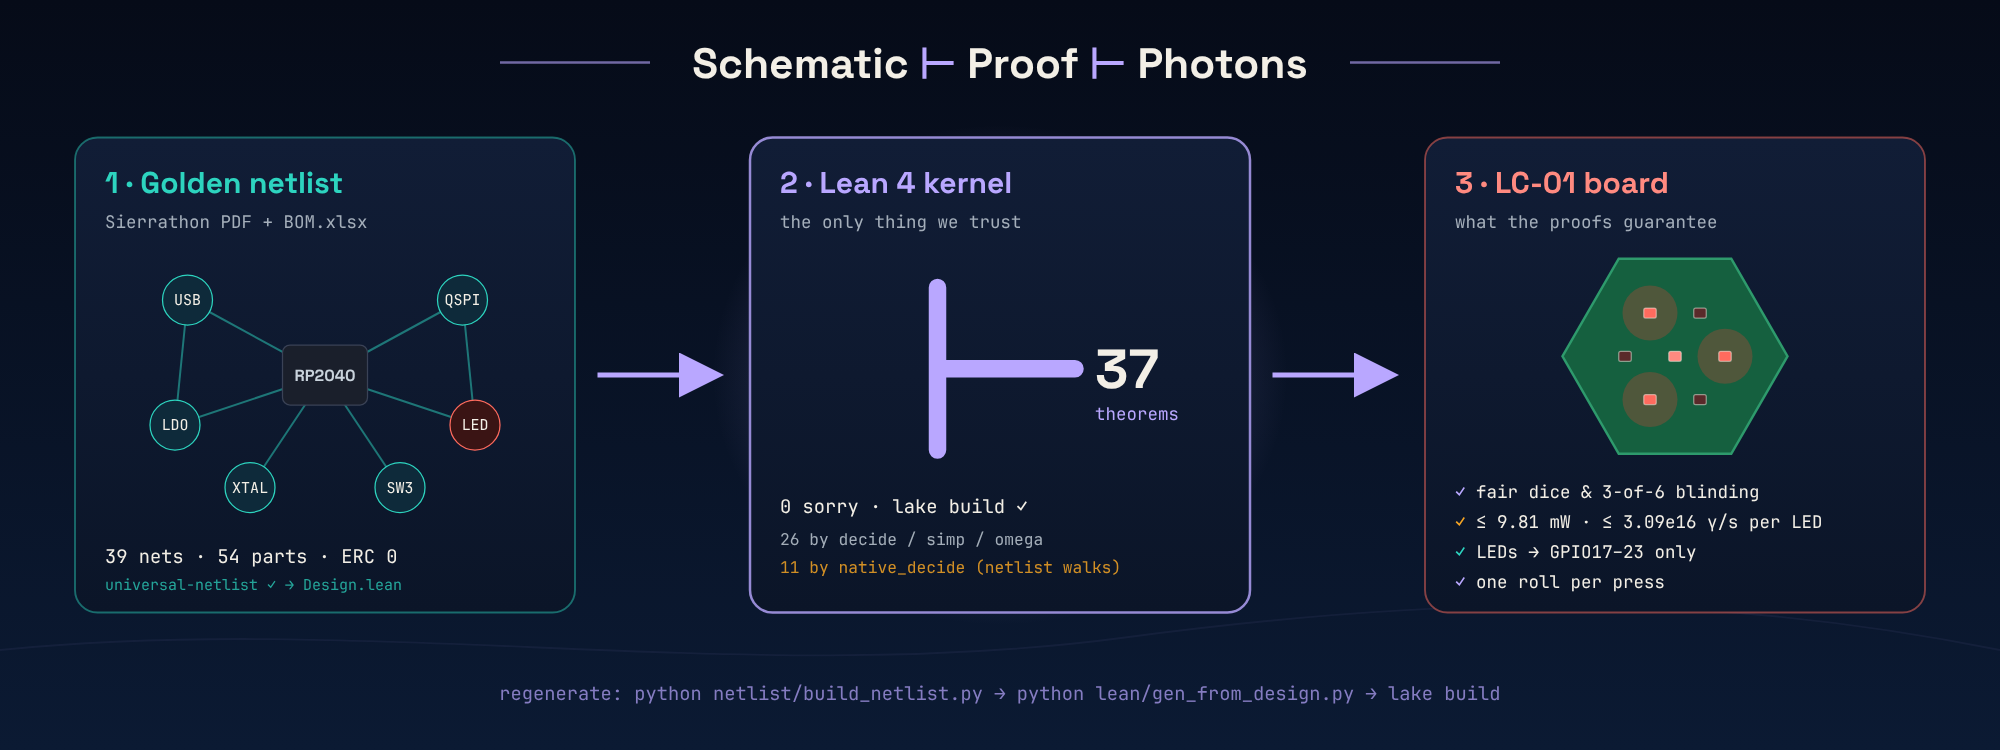
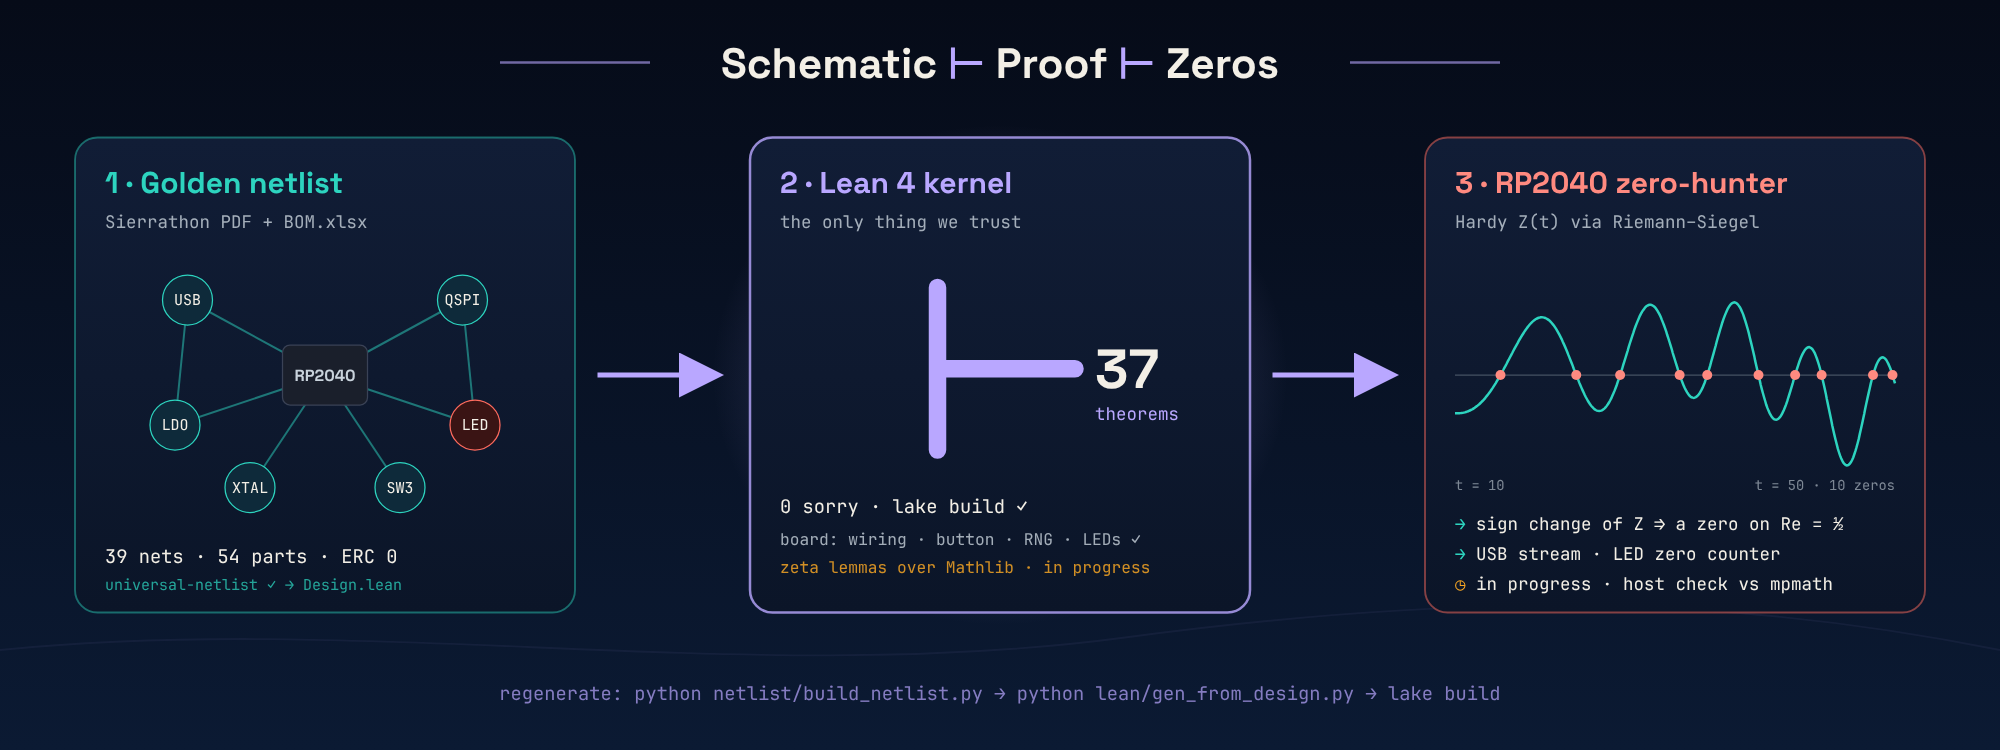
Rewrite README for the Riemann zeta zero-hunter direction
- README now describes LeanChip as an RP2040 zeta zero-hunter: Mathlib's
  exact RiemannHypothesis statement, a claims table separating proven /
  in progress / tested / not claimed, how Hardy Z(t) and Riemann-Siegel
  locate zeros, the first ten zeros, and the Mathlib results the zeta
  lemmas will build on
- Pipeline diagram: Schematic -> Proof -> Zeros, with the zero-hunter
  marked in progress
- Proof cards: board theorems first; quantum-bio modules shown dimmed as
  an earlier iteration

Claude-Session: https://claude.ai/code/session_01E9kwoZPNfPqPjkkcaRGXju

diff --git a/README.md b/README.md
@@ -1,91 +1,99 @@
-<p align="center"><img src="assets/leanchip_banner.png" alt="LeanChip: every photon a theorem. A hexagonal RP2040 board whose seven red LEDs send 625 nm photons to sample wells, floating on a glowing logic turnstile, with Lean proofs drifting below." width="100%"></p>
+<p align="center"><img src="assets/leanchip_banner.png" alt="LeanChip: hunting zeros on Re(s) = 1/2. A hexagonal RP2040 board beside the critical strip of the Riemann zeta function, its first ten zeros glowing on the critical line, with Hardy's Z(t) drawn along the bottom." width="100%"></p>
 
-<p align="center"><b>LeanChip turns the Sierrathon RP2040 board into a photon-dose controller for quantum-biology experiments, where every claim about the light is a Lean 4 theorem.</b><br>
-Same schematic, same BOM, zero extra parts. The proofs are computed from the real netlist.</p>
+<p align="center"><b>LeanChip turns the Sierrathon RP2040 board into a Riemann zeta zero-hunter, and uses Lean 4 to check the math around it.</b><br>
+Same schematic, same BOM, zero extra parts. It does <i>not</i> prove the Riemann Hypothesis, and this README is explicit about what is proven, what is only tested, and what is still open.</p>
 
 <p align="center">
-<img src="https://img.shields.io/badge/Lean_4-37_theorems-B9A7FF?style=for-the-badge&labelColor=0B1A33" alt="Lean 4: 37 theorems">
+<img src="https://img.shields.io/badge/Lean_4-37_board_theorems-B9A7FF?style=for-the-badge&labelColor=0B1A33" alt="Lean 4: 37 board theorems">
 <img src="https://img.shields.io/badge/sorry-0-2DD4BF?style=for-the-badge&labelColor=0B1A33" alt="0 sorry">
-<img src="https://img.shields.io/badge/λ-625_nm-FF6B5E?style=for-the-badge&labelColor=0B1A33" alt="625 nm">
+<img src="https://img.shields.io/badge/RH-open_since_1859-FF6B5E?style=for-the-badge&labelColor=0B1A33" alt="RH: open since 1859">
 <img src="https://img.shields.io/badge/MCU-RP2040-F5A524?style=for-the-badge&labelColor=0B1A33" alt="RP2040">
 </p>
 
-# LeanChip: a verified photon-dose controller
+# LeanChip: a zeta zero-hunter on the Sierrathon board
 
 *Built for Sierrathon 2026: design a manufacturable, cost-effective board from the provided RP2040 schematic and BOM.*
 
-Quantum-biology experiments (red light on cytochrome c oxidase, photobiomodulation of cells, photosynthesis, light-gated behaviour) all hinge on two things:
-**knowing how many photons hit each sample**, and **randomly, blindly choosing which samples get light**. LeanChip does both with the parts already on the board, and proves it.
+## The question
 
-| | The hardware | The physics | The proof |
-|:-:|---|---|---|
-| 🔴 | 7 × QBLP601-R5 red LEDs (625 nm) in a hexagon: 6 wells + 1 status | each photon is one electron–hole recombination, E = hc/λ = **1.98 eV** | `photon_energy`, `bandgap_consistent` |
-| ⚡ | 330 Ω resistors on GPIO17–23, 3.3 V LDO | ≤ 1 photon per electron, so **Φ ≤ I/e** and **P ≤ I·E/e** | `photon_flux_ceiling`, `optical_power_ceiling` |
-| ⏱ | 12 MHz crystal | exposure time error ≤ 50 ppm | `dose_60s`, `timing_10min` |
-| 🎲 | RP2040 ring-oscillator randomness, SW3 button | rejection sampling → **exactly uniform** | `roll_uniform`, `uniform_over_designs` |
-| 🧫 | the 6-LED ring | blinded **3 treated / 3 sham** every run | `always_balanced`, `each_well_half` |
+The Riemann zeta function ζ(s) = Σ n<sup>−s</sup> has "trivial" zeros at −2, −4, −6, …. Every other zero found so far sits on the **critical line Re(s) = ½**. The Riemann Hypothesis says they *all* do. It has been open since 1859. Mathlib states it exactly like this ([`Mathlib/NumberTheory/LSeries/RiemannZeta.lean`](https://github.com/leanprover-community/mathlib4/blob/v4.15.0/Mathlib/NumberTheory/LSeries/RiemannZeta.lean)):
+
+```lean
+def RiemannHypothesis : Prop :=
+  ∀ (s : ℂ) (_ : riemannZeta s = 0) (_ : ¬∃ n : ℕ, s = -2 * (n + 1)) (_ : s ≠ 1), s.re = 1 / 2
+```
+
+## What this project claims, and what it doesn't
+
+| | Status |
+|---|---|
+| ✅ **Proven in Lean** | 37 theorems about the board itself: the real netlist's LED and button wiring, a fair random-number sampler, a glitch-proof button debouncer, LED drive limits |
+| 🔧 **In progress** | Lean lemmas over Mathlib's ζ: "a sign change of Z(t) means a zero on the critical line", ζ(s) ≠ 0 for Re(s) ≥ 1, the trivial zeros |
+| 🔧 **In progress** | RP2040 firmware that computes Hardy's Z(t) with the Riemann–Siegel formula and finds zeros by sign changes |
+| 🧪 **Tested, not proven** | Firmware zero locations will be *checked against* high-precision references (mpmath). That is numerical evidence, not a formal proof of the firmware |
+| ❌ **Not claimed** | A proof of RH. Finding zeros on the line is evidence, never a proof: RH is already verified numerically far beyond anything a microcontroller can reach (Platt & Trudgian, up to height 3·10¹²) |
 
 ## Pipeline
 
-<p align="center"><img src="assets/pipeline.png" alt="Pipeline: the Sierrathon schematic PDF and BOM become a golden netlist (39 nets, 54 parts, ERC clean); generated Lean data feeds the Lean 4 kernel (37 theorems, 0 sorry); the outputs are fair dice and blinded designs, quantum light ceilings, and a GPIO safety guarantee." width="100%"></p>
+<p align="center"><img src="assets/pipeline.png" alt="Pipeline: the Sierrathon schematic and BOM become a golden netlist; generated Lean data feeds the Lean 4 kernel (37 board theorems, zeta lemmas in progress); the RP2040 zero-hunter computes Hardy Z(t) and finds zeros by sign changes, checked on the host against mpmath (in progress)." width="100%"></p>
 
 1. **Golden netlist.** The schematic PDF was transcribed into [`netlist/Sierrathon.netlist.json`](netlist/Sierrathon.netlist.json) (the [Universal Netlist](https://github.com/IntelligentElectron/universal-netlist) open format, SHA-256 checked). `universal-netlist run_erc` passes all 8 rules.
 2. **Lean data.** [`lean/gen_from_design.py`](lean/gen_from_design.py) turns the netlist and BOM into [`Design.lean`](lean/Sierrathon/Design.lean). Nothing about the circuit is retyped by hand.
-3. **Lean kernel.** Firmware tables are *computed* by walking that netlist (GPIO → resistor → LED → GND), then proved correct.
+3. **Lean kernel.** Board facts are *computed* by walking that netlist (GPIO → resistor → LED → GND), then proved.
+4. **Zero-hunter** *(in progress).* The RP2040 evaluates Z(t), streams it over USB, and lights LEDs as zeros are found. The host re-checks every reported zero.
+
+## How the zero hunt works
+
+Hardy's function turns ζ on the critical line into a **real-valued** function:
+
+$$Z(t) = e^{i\theta(t)}\,\zeta\left(\tfrac12 + it\right), \qquad \theta(t) \approx \frac{t}{2}\log\frac{t}{2\pi} - \frac{t}{2} - \frac{\pi}{8} + \frac{1}{48t}$$
+
+Because |Z(t)| = |ζ(½ + it)| and Z is continuous and real, **every sign change of Z is a zero of ζ exactly on the critical line** (the intermediate value theorem). The Riemann–Siegel formula computes Z(t) with only about √(t/2π) terms, which is cheap enough for a microcontroller:
+
+$$Z(t) = 2\sum_{n=1}^{N} \frac{\cos(\theta(t) - t\log n)}{\sqrt{n}} + R(t), \qquad N = \left\lfloor \sqrt{t/2\pi} \right\rfloor$$
+
+```mermaid
+flowchart LR
+    A["t ← t + Δt"] --> B["θ(t), then the<br/>Riemann–Siegel sum"]
+    B --> C{"sign(Z) changed?"}
+    C -- no --> A
+    C -- yes --> D["bisect to locate<br/>the zero"]
+    D --> E["USB: t₀, Z, error bound"]
+    D --> F["LEDs: zero count"]
+    E --> G["host: compare<br/>with mpmath"]
+    style C fill:#1A1F2B,stroke:#B9A7FF,color:#F3EFE6
+    style G fill:#0E2A3A,stroke:#2DD4BF,color:#F3EFE6
+```
+
+The first zeros it should find (Im ρ, from mpmath at 20 digits):
+
+| n | 1 | 2 | 3 | 4 | 5 | 6 | 7 | 8 | 9 | 10 |
+|---|---|---|---|---|---|---|---|---|---|---|
+| t | 14.1347 | 21.0220 | 25.0109 | 30.4249 | 32.9351 | 37.5862 | 40.9187 | 43.3271 | 48.0052 | 49.7738 |
 
 ## The board
 
-The schematic's own **"LED Placement"** box puts 6 LEDs around a centre one, which is a hexagon. So LeanChip is a hexagonal board: six sample sites around a status light.
+The schematic's own **"LED Placement"** box puts 6 LEDs around a centre one, so LeanChip is a hexagonal board. Every GPIO number below was **recovered from the netlist by Lean** (`led_gpio_map`), not copied from the schematic.
 
 ```mermaid
 flowchart LR
     subgraph ring["LED ring (from the schematic's placement box)"]
-        D3["D3 · GPIO17<br/>top-left"]
-        D8["D8 · GPIO22<br/>top-right"]
-        D7["D7 · GPIO21<br/>right"]
-        D6["D6 · GPIO20<br/>bottom-right"]
-        D5["D5 · GPIO19<br/>bottom-left"]
-        D4["D4 · GPIO18<br/>left"]
-        D9(("D9 · GPIO23<br/>status"))
+        D3["D3 · GPIO17"]
+        D8["D8 · GPIO22"]
+        D7["D7 · GPIO21"]
+        D6["D6 · GPIO20"]
+        D5["D5 · GPIO19"]
+        D4["D4 · GPIO18"]
+        D9(("D9 · GPIO23"))
     end
-    U1["RP2040"] -->|"330 Ω each"| ring
+    U1["RP2040"] -->|"330 Ω each, active-high"| ring
     SW3["SW3 · GPIO24<br/>active-low, 10 k pull-up"] --> U1
     J1["USB-C"] -->|"D_P/D_N → ESD → 27 Ω<br/>90 Ω diff pairs"| U1
     style U1 fill:#1A1F2B,stroke:#B9A7FF,color:#F3EFE6
     style D9 fill:#3A1414,stroke:#FF6B5E,color:#F3EFE6
 ```
 
-Every GPIO number above was **recovered from the netlist by Lean** (`led_gpio_map`), not copied from the schematic.
-
-### Modes (one button)
-
-<table>
-<tr>
-<td width="50%" valign="top">
-
-**🧫 Blinded dose run.** Press SW3: firmware draws one of the 20 balanced designs, lights 3 wells for a crystal-timed exposure, and leaves 3 as sham. D9 glows while the exposure runs.
-
-```
-  ●   ○        lit  = treated
-○   ◉   ●      ○    = sham
-  ●   ○        ◉    = running
-```
-
-</td>
-<td width="50%" valign="top">
-
-**🎲 Dice.** The same ring makes a die. The faces Lean renders on the real layout:
-
-```
-face 1   face 2   face 3   face 6
-○   ○    ●   ○    ●   ○    ●   ●
-○ ● ○    ○ ○ ○    ○ ● ○    ● ○ ●
-○   ○    ○   ●    ○   ●    ●   ●
-```
-
-</td>
-</tr>
-</table>
+**SW3** will start and pause the scan. It goes through the debouncer below, which is proved in [`Debounce.lean`](lean/Sierrathon/Debounce.lean): Lean checks all 1,024 possible 10 ms button traces and confirms it never counts more events than presses.
 
 ```mermaid
 stateDiagram-v2
@@ -99,66 +107,54 @@ stateDiagram-v2
     Fired --> Idle: released
 ```
 
-*The SW3 debouncer, exactly as defined in [`Debounce.lean`](lean/Sierrathon/Debounce.lean). Lean checks all 1,024 possible 10 ms button traces and confirms it never counts more events than presses.*
-
 ## Proofs
 
-<p align="center"><img src="assets/proof_modules.png" alt="Six proof modules: Photonics 11 theorems, Dice 7, Debounce 6, Protocol 5, Hardware 4, Rng 4." width="100%"></p>
+<p align="center"><img src="assets/proof_modules.png" alt="37 Lean theorems today: Electrical 4, Dice 7, Debounce 6, Rng 4, Hardware 4, plus 12 dimmed ones kept from the earlier quantum-biology iteration." width="100%"></p>
 
 <details>
-<summary><b>All 37 theorems</b></summary>
+<summary><b>The 25 board theorems ZetaChip builds on</b></summary>
 
 | Module | Theorem | What it says |
 |---|---|---|
-| **Photonics** | `photon_energy` | a 625 nm photon carries 1,983,747 µeV |
-| | `bandgap_consistent` | e·V_f ≥ E_photon (the LED colour is physically consistent) |
-| | `led_current_max` | worst-case LED current = 4.945 mA |
-| | `default_drive_insufficient` | RP2040's default 4 mA pad drive is **not** enough… |
-| | `drive_8mA_sufficient` | …so firmware sets 8 mA, which is |
-| | `all_leds_within_budget` | all 7 LEDs on ≤ 50 mA GPIO budget |
-| | `photon_flux_ceiling` | ≤ 3.09 × 10¹⁶ photons/s per LED |
-| | `optical_power_ceiling` | ≤ 9.81 mW optical per LED |
-| | `array_power_ceiling` | ≤ 68.7 mW for the whole array |
-| | `dose_60s` | a 60 s exposure delivers ≤ 589 mJ per LED |
-| | `timing_10min` | crystal error over 10 min ≤ 30 ms |
-| **Dice** | `pip_count` | face n has n pips |
-| | `pips_on_leds` | every pip lands on a real LED |
-| | `faces_point_symmetric` | every face looks the same upside down |
-| | `mask_lights_n_leds` | face n lights exactly n LEDs on the board |
-| | `masks_distinct` | the 6 faces are 6 different patterns |
-| | `masks_only_touch_led_pins` | firmware only drives GPIO17–23 |
-| | `mask_table` | the exact table the firmware ships |
-| **Debounce** | `event_needs_press` | a roll only fires on a pressed sample |
+| **Hardware** | `every_led_driven_and_grounded` | GPIO → R → LED → GND for all 7 LEDs |
+| | `led_gpio_map` | the exact LED ↦ GPIO wiring |
+| | `led_gpios_distinct` | 7 LEDs on 7 different GPIOs |
+| | `button_wiring` | SW3 is GPIO24, active-low, pulled up, not an LED pin |
+| **Debounce** | `event_needs_press` | an event only fires on a pressed sample |
 | | `latched_silent` | holding the button never auto-repeats |
 | | `release_resets` | releasing clears the state |
 | | `short_glitch_ignored` | presses shorter than 5 ms never fire |
 | | `long_hold_fires_once` | a 1 s hold fires exactly once |
 | | `never_double_counts` | over all 1,024 traces, events ≤ presses |
-| **Protocol** | `twenty_designs` | there are C(6,3) = 20 balanced designs |
-| | `always_balanced` | every design treats exactly 3, shams exactly 3 |
-| | `uniform_over_designs` | each design has exactly 12 of 256 byte values |
-| | `each_well_half` | each well is treated in exactly half the designs |
-| | `design_masks_safe` | a design never lights D9 or touches the button pin |
-| **Hardware** | `every_led_driven_and_grounded` | GPIO → R → LED → GND for all 7 LEDs |
-| | `led_gpio_map` | the exact LED ↦ GPIO wiring |
-| | `led_gpios_distinct` | 7 LEDs on 7 different GPIOs |
-| | `button_wiring` | SW3 is GPIO24, active-low, pulled up, not an LED pin |
-| **Rng** | `roll_in_range` | every roll is in 1..6 (∀ b, by `omega`) |
-| | `roll_uniform` | each face has exactly 42 of 256 bytes |
-| | `reject_count` | only 4 of 256 bytes are redrawn |
-| | `naive_is_biased` | the naive `b % 6` really is biased |
+| **Electrical** | `led_current_max` | worst-case LED current = 4.945 mA |
+| | `default_drive_insufficient` | RP2040's default 4 mA pad drive is **not** enough… |
+| | `drive_8mA_sufficient` | …so firmware sets 8 mA |
+| | `all_leds_within_budget` | all 7 LEDs on ≤ 50 mA GPIO budget |
+| **Dice** | `pip_count` … `mask_table` | 7 theorems: LED patterns light exactly the intended LEDs, only on GPIO17–23 |
+| **Rng** | `roll_in_range`, `roll_uniform`, `reject_count`, `naive_is_biased` | rejection sampling is exactly uniform; naive `b % 6` is biased |
+
+The other 12 theorems (photon ceilings and 3-of-6 blinding in `Photonics.lean` and `Protocol.lean`) come from the earlier quantum-biology iteration. They still compile but ZetaChip doesn't use them.
 
 </details>
+
+### Zeta lemmas (next)
+
+These build on results Mathlib **already proves**, so nothing about RH is assumed:
+
+| Mathlib result | What it gives the zero-hunter |
+|---|---|
+| `riemannZeta_neg_two_mul_nat_add_one` | the trivial zeros ζ(−2(n+1)) = 0 |
+| `riemannZeta_ne_zero_of_one_lt_re` | no zeros with Re(s) > 1 |
+| `riemannZeta_ne_zero_of_one_le_re` | no zeros on Re(s) = 1 either, so every non-trivial zero lies in the open strip 0 < Re(s) < 1 |
+| intermediate value theorem | a continuous real Z with Z(a)·Z(b) < 0 has a zero in (a, b) |
 
 ### What to trust, and how much
 
 > [!IMPORTANT]
-> **Assumptions are named, not hidden.** Every input that isn't a physical constant is a named `def` in [`Photonics.lean`](lean/Sierrathon/Photonics.lean), marked `ASSUMPTION` in a comment: LED V<sub>f</sub> min/typ, LDO worst-case high, RP2040 GPIO budget, crystal ppm. Change a value and `lake build` tells you which guarantees still hold.
+> **Assumptions are named, not hidden.** Electrical inputs that aren't physical constants (LED V<sub>f</sub>, LDO worst case, GPIO budget) are named `def`s marked `ASSUMPTION` in [`Photonics.lean`](lean/Sierrathon/Photonics.lean). Change one and `lake build` tells you which guarantees still hold.
 
 > [!NOTE]
 > **26 proofs** are checked by the Lean kernel alone (`decide`, `simp`, `omega`, `rfl`). **11** use `native_decide`, which also trusts the compiler; these are the ones that walk the netlist strings. Moving them to kernel-only `decide` is on the roadmap.
-
-The power ceilings are **upper bounds that hold for any LED efficiency**. They make a safe "never more than" dose. A *delivered* dose (for J/cm²) still needs a one-time calibration with a photodiode at your sample distance.
 
 ## Hardware spec
 
@@ -188,6 +184,8 @@ The power ceilings are **upper bounds that hold for any LED efficiency**. They m
 </table>
 
 **90 Ω pairs:** `USB_P/USB_N`, `USBR_P/USBR_N`, `D_P/D_N`
+
+**Layout plan** *(in progress)*: a hexagonal 4-layer board with components packed as tightly as the 6 mil rules allow, plus a **thermal model** of the packed board (LDO, RP2040 and LEDs as heat sources) to check that the density stays cool.
 
 **Issues found in the provided docs:**
 - BOM line 5 says **Qty 8** for LEDs but lists **7** refdes (D3–D9). The schematic has 7.
@@ -226,7 +224,7 @@ The power ceilings are **upper bounds that hold for any LED efficiency**. They m
 ```
 ├── lean/                     Lean 4 project (lake build)
 │   ├── gen_from_design.py    netlist + BOM  →  Sierrathon/Design.lean
-│   └── Sierrathon/           Hardware · Dice · Rng · Debounce · Photonics · Protocol
+│   └── Sierrathon/           Hardware · Debounce · Rng · Dice · Photonics · Protocol
 ├── netlist/                  golden netlist (Universal Netlist v3) + its builder
 ├── altium/                   Altium .SchLib / .PcbLib / .LibPkg, written with altium-designer-mcp
 └── assets/                   banner and diagrams (SVG sources + PNG)
@@ -238,11 +236,7 @@ The power ceilings are **upper bounds that hold for any LED efficiency**. They m
 cd lean && lake build
 ```
 
-```bash
-lake exe sierrathon
-```
-
-`lake build` checks every proof. `lake exe sierrathon` prints the dice faces on the real LED layout. Lean 4.15.0 is pinned in `lean/lean-toolchain`.
+`lake build` checks every proof. Lean 4.15.0 is pinned in `lean/lean-toolchain`.
 
 To re-check the netlist:
 
@@ -257,9 +251,10 @@ universal-netlist run_erc netlist/Sierrathon.netlist.json
 ## Status
 
 - [x] Golden netlist from the schematic: ERC clean
-- [x] 37 Lean theorems, 0 `sorry`
+- [x] 37 Lean board theorems, 0 `sorry`
 - [x] Altium library: 18 of 21 parts with footprints (IPC-7351 land patterns)
-- [ ] Footprints for SW1/SW2 (PTS526), SW3 (D6R90) and J1 (UJ20-C-H-G-SMT) from the manufacturer land patterns
-- [ ] Schematic capture and hexagonal PCB layout in CAD, with the rules above and DRC
-- [ ] RP2040 firmware (pico-sdk) built from the Lean-generated tables
-- [ ] Photodiode calibration for delivered dose
+- [ ] Zeta lemmas over Mathlib (sign change ⇒ critical-line zero, zero-free region Re(s) ≥ 1)
+- [ ] RP2040 zero-hunter firmware (pico-sdk): Riemann–Siegel Z(t), USB stream, LED zero counter
+- [ ] Host verification against mpmath: PASS / FAIL / NOT_TESTED per zero
+- [ ] Compact hexagonal 4-layer PCB, DRC, per-layer renders, thermal model
+- [ ] Footprints for SW1/SW2 (PTS526), SW3 (D6R90) and J1 (UJ20-C-H-G-SMT) from manufacturer land patterns
